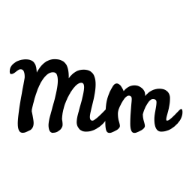
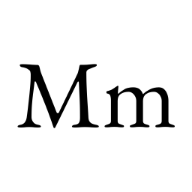
up

Changed region(s): [[0.0312, 0.2812, 0.9688, 0.7188]]

diff --git a/tailwind.config.js b/tailwind.config.js
@@ -12,19 +12,32 @@ module.exports = {
   theme: {
     fontFamily: {
       sans: [
+        // "Helvetica",
         "Linux Biolinum O",
         "LXGW New Clear Gothic",
         "LXGW Clear Gothic",
         "sans-serif",
       ],
-      serif: ["Linux Libertine O", "LXGW WenKai", "serif"],
+      serif: [
+        // "Helvetica",
+        // "EB Garamond",
+        "Linux Libertine O",
+        "Source Han Serif SC",
+        // "LXGW WenKai",
+        "serif",
+      ],
       mono: [
         "Fira Code",
         // NOTE One Chinese character should equal to two English characters.
         "LXGW WenKai Larger",
         "monospace",
       ],
-      logo: ["Linux Libertine O", "Source Han Serif SC", "serif"],
+      logo: [
+        "EB Garamond",
+        // "Linux Libertine O",
+        "Source Han Serif SC",
+        "serif",
+      ],
     },
   },
 }

diff --git a/index.html b/index.html
@@ -5,6 +5,7 @@
     <link rel="icon" type="image/svg+xml" href="/favicon.ico" />
     <meta name="viewport" content="width=device-width, initial-scale=1.0" />
     <title>Mimor</title>
+    <link rel="manifest" href="/manifest.json" />
     <meta name="description" content="Making memory a choice." />
   </head>
   <body>

diff --git a/TODO.md b/TODO.md
@@ -1,6 +1,5 @@
 # mimor
 
-
 MimorStmt v.s. MimorNode
 
 - `router.node`
